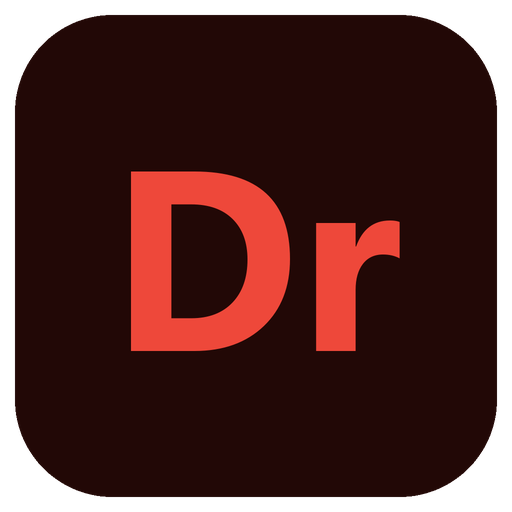
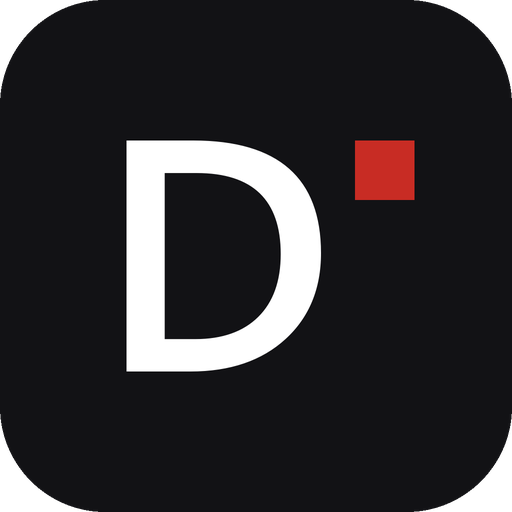
Darkroom 1.0.1
- New app icon
- Fix dialog content growing past the dialog edge (new catalog, watermark editor)
- Truncate long names in fixed-width dropdowns (e.g. imported profile names in Develop)
- Self-test logs dialogs whose content is wider than the dialog

Changed region(s): [[0.2188, 0.25, 0.8125, 0.75], [0.0, 0.0, 1.0, 1.0]]

diff --git a/src/ui/dialogs.rs b/src/ui/dialogs.rs
@@ -443,7 +443,7 @@ fn import_dialog(app: &mut App, ctx: &egui::Context) {
                 form::card(ui, tr!("가져오면서 적용", "Apply during import"), "", |ui| {
                     form::row(ui, tr!("현상 프리셋", "Develop preset"), |ui| {
                         let cur = plan.preset.and_then(|id| presets.iter().find(|p| p.id == id)).map(|p| p.name.clone()).unwrap_or_else(|| tr!("없음", "None").into());
-                        egui::ComboBox::from_id_salt("imp_preset").width(260.0).selected_text(cur).show_ui(ui, |ui| {
+                        egui::ComboBox::from_id_salt("imp_preset").truncate().width(260.0).selected_text(cur).show_ui(ui, |ui| {
                             ui.selectable_value(&mut plan.preset, None, tr!("없음", "None"));
                             for p in presets.iter() {
                                 ui.selectable_value(&mut plan.preset, Some(p.id), format!("{} / {}", p.group, p.name));
@@ -695,7 +695,7 @@ fn export_dialog(app: &mut App, ctx: &egui::Context) {
                             form::switch_row(ui, tr!("크기 조정", "Resize"), &mut s.resize, d);
                             if s.resize {
                                 form::row(ui, tr!("기준", "Fit"), |ui| {
-                                    egui::ComboBox::from_id_salt("rmode").width(110.0).selected_text(s.resize_mode.name()).show_ui(ui, |ui| {
+                                    egui::ComboBox::from_id_salt("rmode").truncate().width(110.0).selected_text(s.resize_mode.name()).show_ui(ui, |ui| {
                                         for m in ResizeMode::ALL {
                                             ui.selectable_value(&mut s.resize_mode, m, m.name());
                                         }
@@ -729,7 +729,7 @@ fn export_dialog(app: &mut App, ctx: &egui::Context) {
                         });
                         form::card(ui, tr!("메타데이터", "Metadata"), "", |ui| {
                             form::row(ui, tr!("포함", "Include"), |ui| {
-                                egui::ComboBox::from_id_salt("metam").width(220.0).selected_text(s.metadata.name()).show_ui(ui, |ui| {
+                                egui::ComboBox::from_id_salt("metam").truncate().width(220.0).selected_text(s.metadata.name()).show_ui(ui, |ui| {
                                     for m in export::metadata::MetaMode::ALL {
                                         ui.selectable_value(&mut s.metadata, m, m.name());
                                     }
@@ -924,8 +924,9 @@ fn wm_editor(app: &mut App, ctx: &egui::Context) {
         |ui| {
             ui.horizontal_top(|ui| {
                 // Preview
-                let pw = (ui.available_width() - 400.0).max(300.0);
-                ui.vertical_centered(|ui| {
+                // Left-anchored column: a centered layout would shrink around its middle and push the right column out of the dialog
+                let pw = (ui.available_width() - 384.0 - 12.0 - 2.0 * ui.spacing().item_spacing.x).max(300.0);
+                ui.allocate_ui_with_layout(vec2(pw, 0.0), egui::Layout::top_down(egui::Align::Center), |ui| {
                     ui.set_width(pw);
                     if let Some(t) = &ed.tex {
                         let size = t.size_vec2();
@@ -944,7 +945,7 @@ fn wm_editor(app: &mut App, ctx: &egui::Context) {
                         let w = &mut ed.wm;
                         form::card(ui, "", "", |ui| {
                             form::row(ui, tr!("불러오기", "Load"), |ui| {
-                                egui::ComboBox::from_id_salt("wm_list").width(200.0).selected_text(if ed.list.is_empty() { tr!("저장된 것 없음", "Nothing saved") } else { tr!("목록에서 선택…", "Choose from list…") }).show_ui(ui, |ui| {
+                                egui::ComboBox::from_id_salt("wm_list").truncate().width(200.0).selected_text(if ed.list.is_empty() { tr!("저장된 것 없음", "Nothing saved") } else { tr!("목록에서 선택…", "Choose from list…") }).show_ui(ui, |ui| {
                                     for x in &ed.list {
                                         if ui.selectable_label(x.name == w.name, &x.name).clicked() {
                                             *w = x.clone();
@@ -969,7 +970,7 @@ fn wm_editor(app: &mut App, ctx: &egui::Context) {
                             });
                             form::card(ui, tr!("글꼴", "Font"), "", |ui| {
                                 form::row(ui, tr!("글꼴", "Font"), |ui| {
-                                    egui::ComboBox::from_id_salt("wm_font").width(200.0).selected_text(&w.font_name).show_ui(ui, |ui| {
+                                    egui::ComboBox::from_id_salt("wm_font").truncate().width(200.0).selected_text(&w.font_name).show_ui(ui, |ui| {
                                         ui.add(egui::TextEdit::singleline(&mut ed.font_filter).hint_text(tr!("검색", "Search")));
                                         let f = ed.font_filter.to_lowercase();
                                         egui::ScrollArea::vertical().max_height(300.0).show(ui, |ui| {

diff --git a/src/ui/form.rs b/src/ui/form.rs
@@ -53,6 +53,10 @@ pub fn modal<B, F>(
                 ui.set_max_height(body_h - 24.0);
                 body(ui)
             });
+            // Self-test: report body content wider than the dialog (it would break the header and footer lines)
+            if std::env::var_os("DARKROOM_AUTOTEST").is_some() && b.response.rect.width() > w + 1.0 {
+                eprintln!("[layout] modal \"{id}\" body {:.0}px wider than {w:.0}px", b.response.rect.width());
+            }
             hline(ui, w);
             // Footer button row
             let f = egui::Frame::new().fill(PANEL()).corner_radius(CornerRadius { nw: 0, ne: 0, sw: 10, se: 10 }).inner_margin(Margin::symmetric(20, 12)).show(ui, |ui| {
@@ -122,13 +126,22 @@ pub fn hint(ui: &mut Ui, text: &str) {
 
 /// Switch row: name in the label column, switch + description on the right
 pub fn switch_row(ui: &mut Ui, label: &str, on: &mut bool, desc: &str) -> bool {
-    row(ui, label, |ui| {
+    ui.horizontal_top(|ui| {
+        let (r, _) = ui.allocate_exact_size(vec2(LABEL_W, 22.0), Sense::hover());
+        ui.painter().text(r.left_center(), Align2::LEFT_CENTER, label, FontId::proportional(12.5), TEXT_WEAK());
         let ch = super::widgets::toggle(ui, on).changed();
         if !desc.is_empty() {
-            ui.label(egui::RichText::new(desc).size(11.5).color(if *on { TEXT() } else { TEXT_WEAK() }));
+            // Wrap within the remaining width so a long description never widens the dialog
+            let w = ui.available_width();
+            ui.allocate_ui(vec2(w, 0.0), |ui| {
+                ui.set_max_width(w);
+                ui.add_space(3.0);
+                ui.add(egui::Label::new(egui::RichText::new(desc).size(11.5).color(if *on { TEXT() } else { TEXT_WEAK() })).wrap());
+            });
         }
         ch
     })
+    .inner
 }
 
 /// Segmented control (joined buttons). Returns true when changed

diff --git a/src/ui/develop.rs b/src/ui/develop.rs
@@ -1484,7 +1484,7 @@ pub(super) fn right_panel(app: &mut App, ui: &mut Ui) -> (Edit, String) {
                     let (lr, _) = ui.allocate_exact_size(vec2(widgets::SLIDER_LABEL_W, 20.0), Sense::hover());
                     ui.painter().text(lr.left_center(), Align2::LEFT_CENTER, tr!("프로파일", "Profile"), FontId::proportional(12.0), TEXT_WEAK());
                     let cur = if s.profile.is_empty() { crate::develop::dcp::DEFAULT_PROFILE.to_string() } else { s.profile.clone() };
-                    egui::ComboBox::from_id_salt("profile").width(ui.available_width() - 8.0).height(520.0).selected_text(crate::develop::dcp::profile_display(&cur)).show_ui(ui, |ui| {
+                    egui::ComboBox::from_id_salt("profile").truncate().width(ui.available_width() - 8.0).height(520.0).selected_text(crate::develop::dcp::profile_display(&cur)).show_ui(ui, |ui| {
                         for (group, names) in crate::develop::dcp::profile_groups(rc) {
                             ui.label(egui::RichText::new(group).size(10.5).color(TEXT_DIM()));
                             for name in names {
@@ -1520,7 +1520,7 @@ pub(super) fn right_panel(app: &mut App, ui: &mut Ui) -> (Edit, String) {
                         } else {
                             tr!("촬영 시", "As Shot")
                         };
-                        egui::ComboBox::from_id_salt("wb_preset").width(80.0).selected_text(crate::i18n::t(cur)).show_ui(ui, |ui| {
+                        egui::ComboBox::from_id_salt("wb_preset").truncate().width(80.0).selected_text(crate::i18n::t(cur)).show_ui(ui, |ui| {
                             if ui.selectable_label(!s.wb_custom, tr!("촬영 시", "As Shot")).clicked() {
                                 s.wb_custom = false;
                                 e.changed = true;

diff --git a/src/ui/tools.rs b/src/ui/tools.rs
@@ -798,7 +798,7 @@ pub fn print_dialog(app: &mut App, ctx: &egui::Context) {
                         let l = &mut d.lay;
                         super::form::card(ui, tr!("용지", "Paper"), "", |ui| {
                             super::form::row(ui, tr!("크기", "Size"), |ui| {
-                                egui::ComboBox::from_id_salt("paper").width(160.0).selected_text(l.paper.name()).show_ui(ui, |ui| {
+                                egui::ComboBox::from_id_salt("paper").truncate().width(160.0).selected_text(l.paper.name()).show_ui(ui, |ui| {
                                     for p in Paper::ALL {
                                         ui.selectable_value(&mut l.paper, p, p.name());
                                     }

diff --git a/src/ui/library.rs b/src/ui/library.rs
@@ -308,7 +308,7 @@ fn toolbar(app: &mut App, ui: &mut Ui) {
             ui.separator();
             ui.label(egui::RichText::new(tr!("정렬", "Sort")).color(TEXT_WEAK()));
             let before = (app.prefs.sort, app.prefs.sort_desc);
-            egui::ComboBox::from_id_salt("sort").width(90.0).selected_text(app.prefs.sort.name()).show_ui(ui, |ui| {
+            egui::ComboBox::from_id_salt("sort").truncate().width(90.0).selected_text(app.prefs.sort.name()).show_ui(ui, |ui| {
                 for k in SortKey::ALL {
                     ui.selectable_value(&mut app.prefs.sort, k, k.name());
                 }
